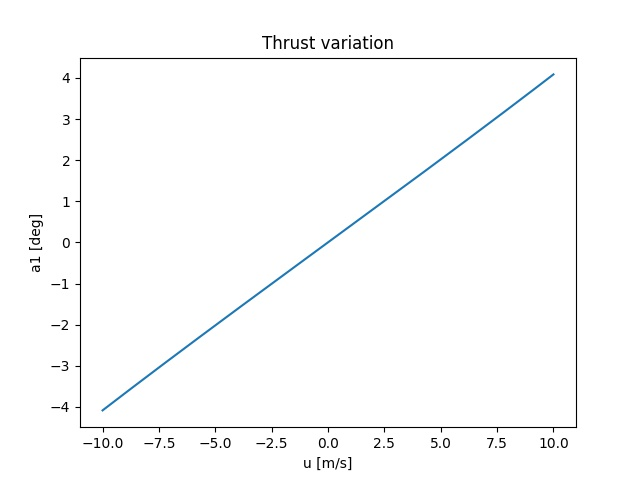
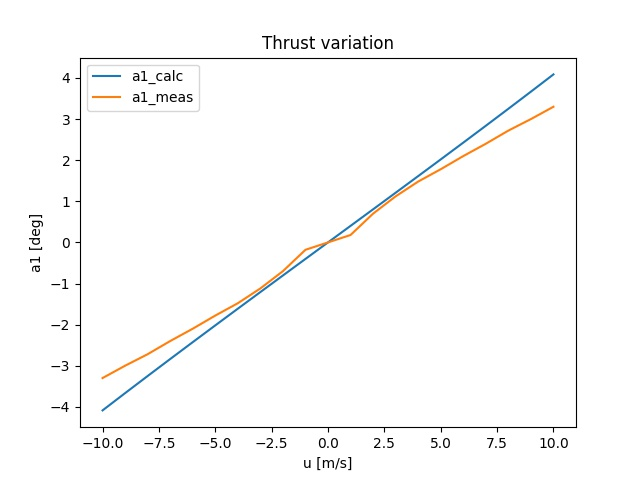
Induced velocity

diff --git a/Hummingbird/Hummingbird_env/EnvTest.py b/Hummingbird/Hummingbird_env/EnvTest.py
@@ -29,28 +29,28 @@ wm_arr = np.linspace(-2., 10., 120)
 vi_arr = []
 Delta_T_arr = []
 
-for i in range(120):
+# for i in range(120):
 
-    wm = -wm_arr[i]
-    vi = wm/2 + np.sqrt(((0.5*wm)**2) + (env.vh**2))
-    Delta_Thrust = env.rho * np.pi * (2*np.pi*RPS) * env.prop_mean_chord * ((env.D_prop**2)/4) * (- vi + wm + env.vh)
+#     wm = -wm_arr[i]
+#     vi = wm/2 + np.sqrt(((0.5*wm)**2) + (env.vh**2))
+#     Delta_Thrust = env.rho * np.pi * (2*np.pi*RPS) * env.prop_mean_chord * ((env.D_prop**2)/4) * (- vi + wm + env.vh)
     
-    vi_arr.append(vi)
-    Delta_T_arr.append(Delta_Thrust)
+#     vi_arr.append(vi)
+#     Delta_T_arr.append(Delta_Thrust)
 
-plt.figure(1)
-plt.plot(wm_arr, vi_arr)
-plt.xlabel('Vc [m/s]')
-plt.ylabel('induced vel. [m/s]')
-plt.title('Induced velocity')
-plt.savefig('SimulationResults/Induced_vel.jpg')
+# plt.figure(1)
+# plt.plot(wm_arr, vi_arr)
+# plt.xlabel('Vc [m/s]')
+# plt.ylabel('induced vel. [m/s]')
+# plt.title('Induced velocity')
+# plt.savefig('SimulationResults/Induced_vel.jpg')
 
-plt.figure(2)
-plt.plot(wm_arr, Delta_T_arr)
-plt.xlabel('Vc [m/s]')
-plt.ylabel('Delta Thrust [N]')
-plt.title('Thrust variation')
-plt.savefig('SimulationResults/Delta_Thrust.jpg')
+# plt.figure(2)
+# plt.plot(wm_arr, Delta_T_arr)
+# plt.xlabel('Vc [m/s]')
+# plt.ylabel('Delta Thrust [N]')
+# plt.title('Thrust variation')
+# plt.savefig('SimulationResults/Delta_Thrust.jpg')
 
 
 ## Graphs of flap coefficient
@@ -64,11 +64,11 @@ U_tip = Omega_prop * env.D_prop / 2 #[m/s]
 
 lambda_i = (-env.vh) / U_tip # induced velocity coefficient
 
-um_arr = np.linspace(-10, 10, 200)
+um_arr = np.linspace(-10, 10, 21)
 
 a1_arr = []
 
-for i1 in range(200):
+for i1 in range(21):
 
     um = um_arr[i1]
 
@@ -80,11 +80,27 @@ for i1 in range(200):
 
     a1_arr.append(a1_deg)
 
+
+
+a1meas = [0, 0.18, 0.7, 1.12, 1.48, 1.78, 2.10, 2.4, 2.72, 3.0, 3.3]# measured value of a1 from Quad model reference
+
+a1meas1 = np.zeros(10)
+
+for i in range(a1meas.__len__()-1):
+    
+    a1meas1[i] = -a1meas[10-i]
+
+
+
+a1meas = np.concatenate((a1meas1, a1meas))
+
 plt.figure(3)
 plt.plot(um_arr, a1_arr)
+plt.plot(um_arr, a1meas)
 plt.xlabel('u [m/s]')
 plt.ylabel('a1 [deg]')
 plt.title('Thrust variation')
+plt.legend(["a1_calc","a1_meas"])
 plt.savefig('SimulationResults/a1_fig.jpg')
 
-
+print(a1meas)
